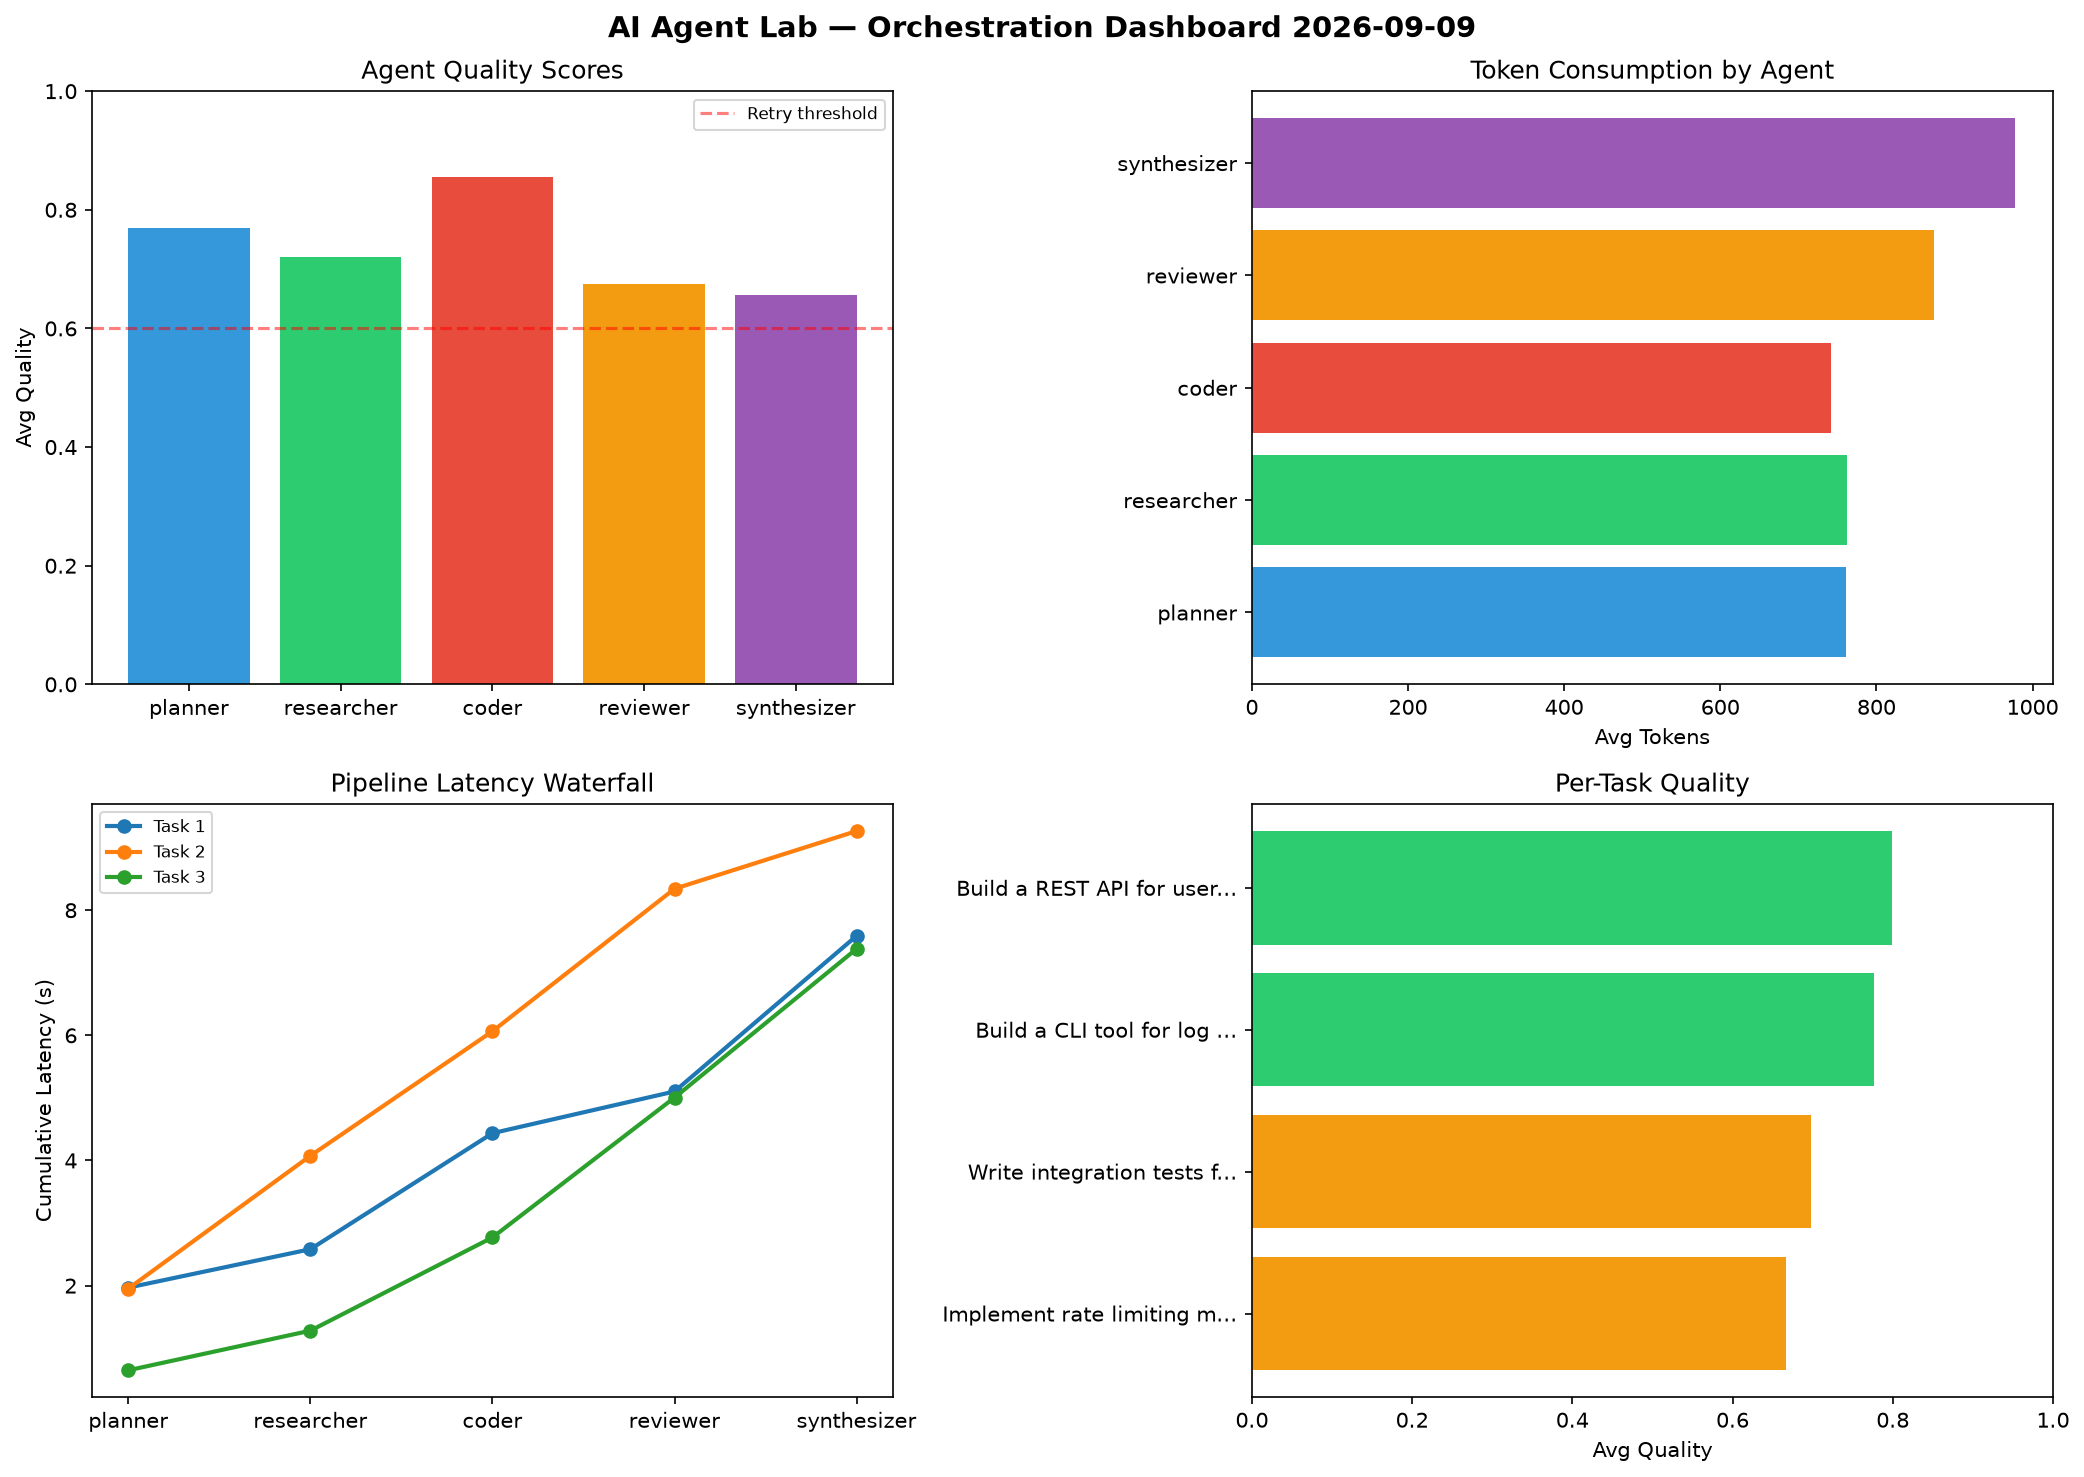
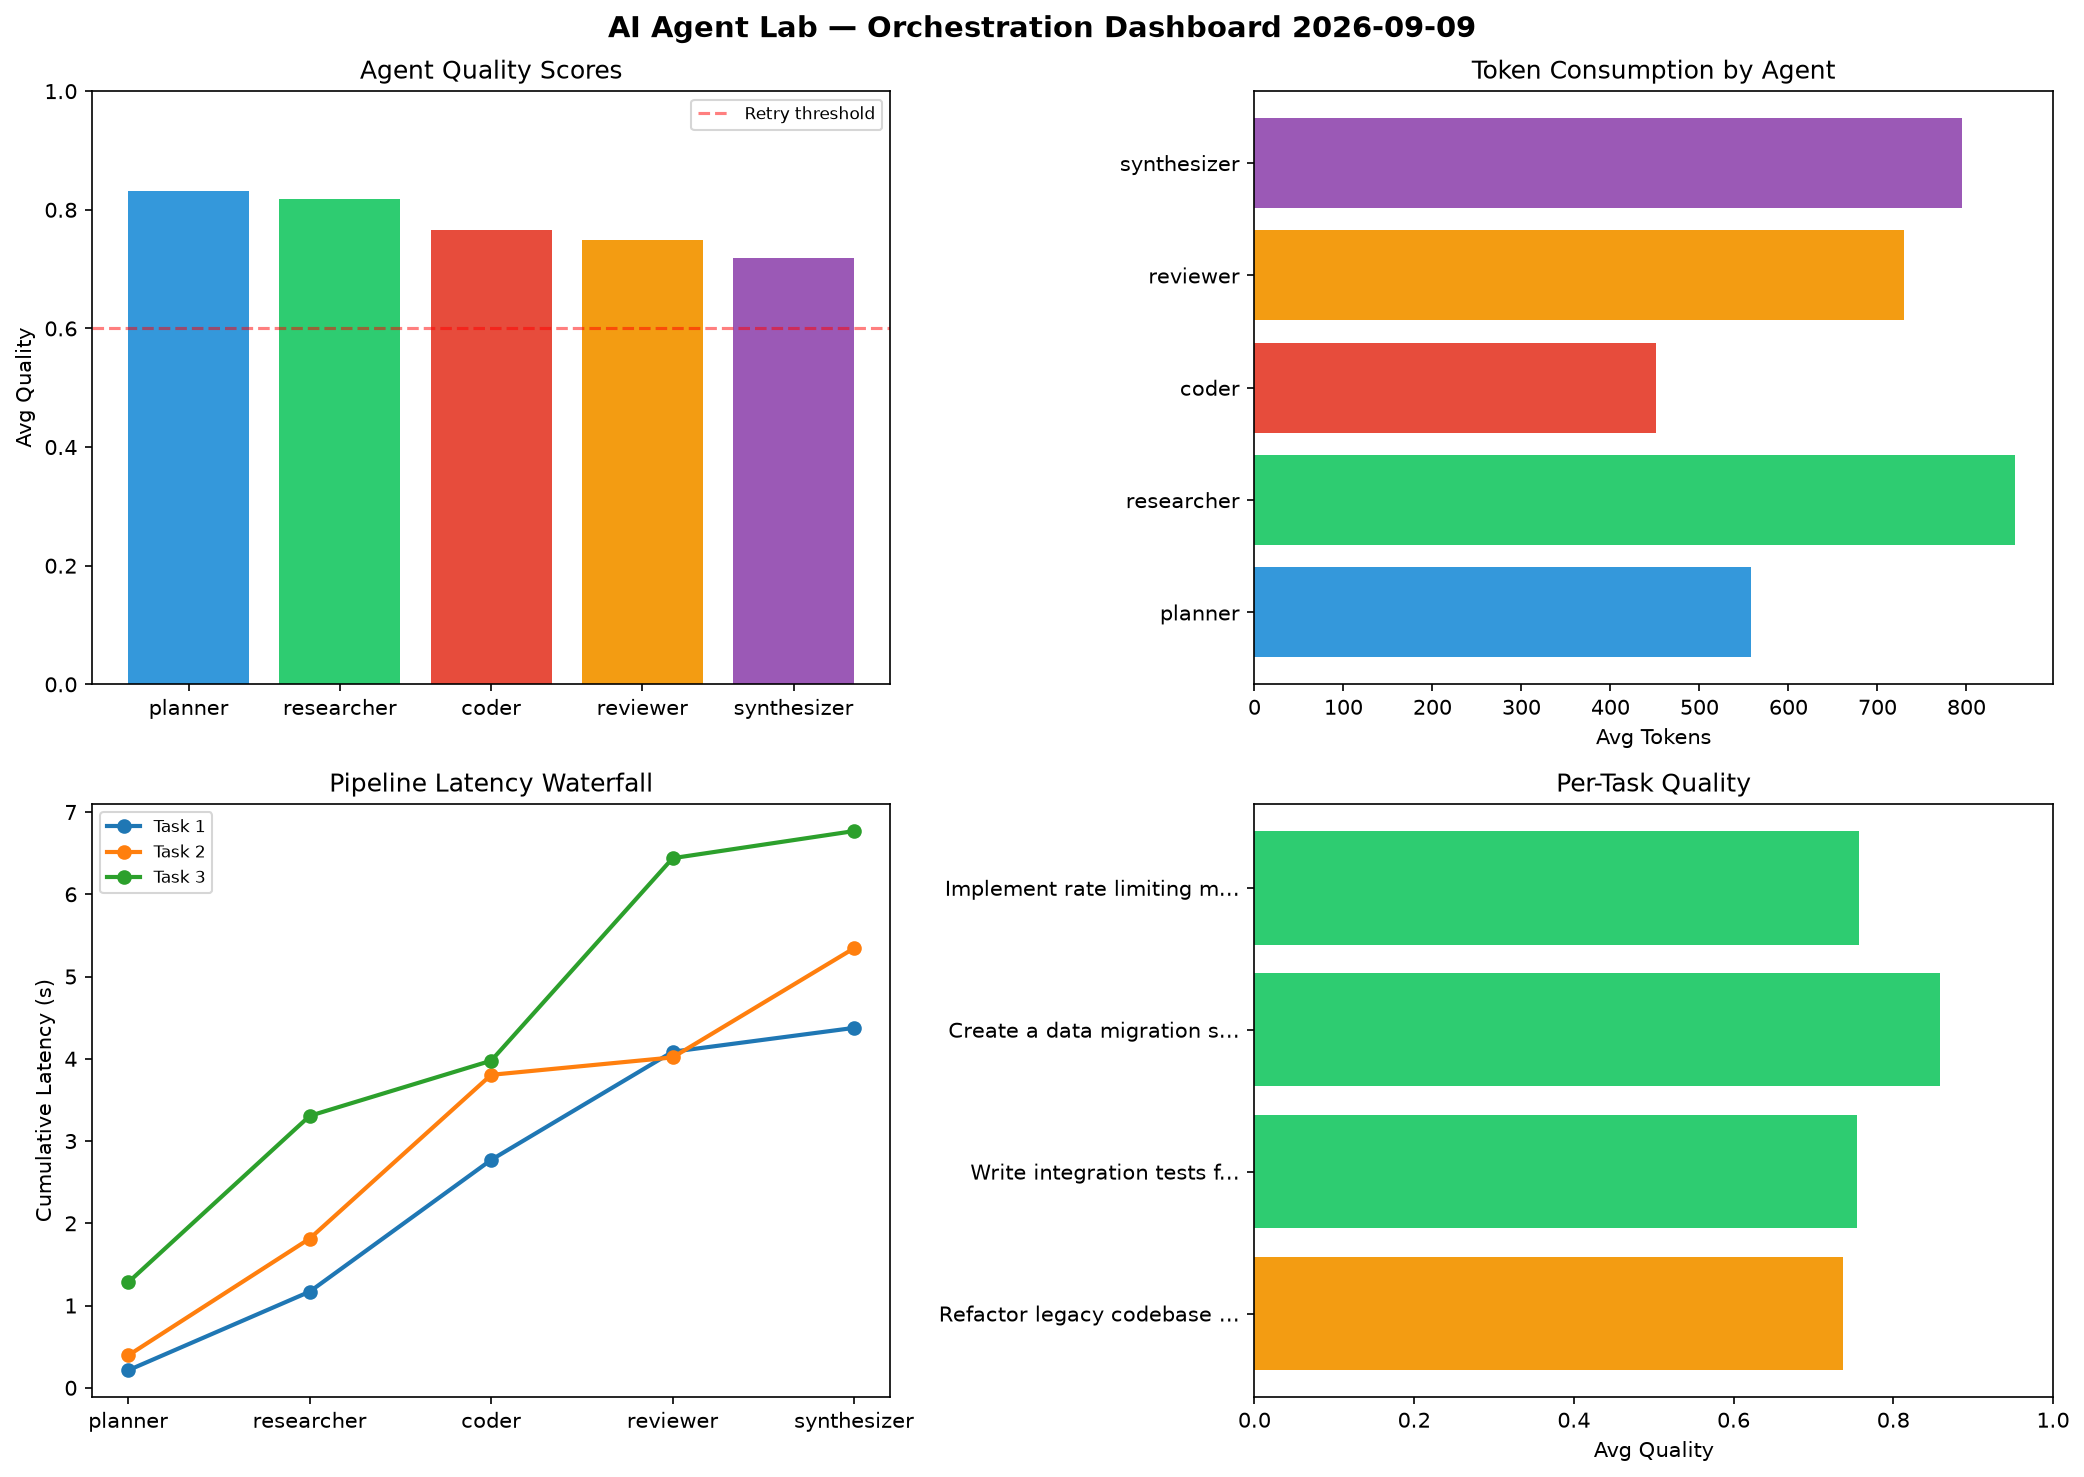
ai-agent-lab: orchestration run 2026-09-09T17:51

diff --git a/logs/2026-09-09.md b/logs/2026-09-09.md
@@ -1,6 +1,6 @@
 # AI Agent Lab — Orchestration Report 2026-09-09
 
-**Run ID:** `82d1d21ab0` | **Tasks:** 4 | **Avg Quality:** 0.735
+**Run ID:** `65b1650463` | **Tasks:** 4 | **Avg Quality:** 0.777
 
 ![Dashboard](2026-09-09_dashboard.png)
 
@@ -8,52 +8,52 @@
 
 | Metric | Value |
 |--------|-------|
-| avg_latency | 7.375 |
-| total_tokens | 16463 |
-| avg_quality | 0.735 |
+| avg_latency | 5.877 |
+| total_tokens | 13554 |
+| avg_quality | 0.777 |
 
 ## Delta vs Yesterday
 
 | Metric | Today | Yesterday | Change |
 |--------|-------|-----------|--------|
-| avg_latency | 7.375 | 7.096 | 📈 3.9% |
-| total_tokens | 16463 | 14854 | 📈 10.8% |
-| avg_quality | 0.735 | 0.817 | 📉 -10.0% |
+| avg_latency | 5.877 | 7.096 | 📉 -17.2% |
+| total_tokens | 13554 | 14854 | 📉 -8.8% |
+| avg_quality | 0.777 | 0.817 | 📉 -4.9% |
 
 ## Pipeline Results
 
-### Implement rate limiting middleware
+### Refactor legacy codebase to use dependency injection
 | Agent | Quality | Latency | Tokens | Status |
 |-------|---------|---------|--------|--------|
-| planner | 0.693 | 1.968s | 799 | success |
-| researcher | 0.631 | 0.614s | 1026 | success |
-| coder | 0.918 | 1.854s | 777 | success |
-| reviewer | 0.527 | 0.667s | 429 | needs_retry |
-| synthesizer | 0.564 | 2.487s | 774 | needs_retry |
+| planner | 0.884 | 0.213s | 843 | success |
+| researcher | 0.765 | 0.956s | 471 | success |
+| coder | 0.701 | 1.602s | 585 | success |
+| reviewer | 0.771 | 1.315s | 670 | success |
+| synthesizer | 0.564 | 0.29s | 788 | needs_retry |
 
 ### Write integration tests for payment processing module
 | Agent | Quality | Latency | Tokens | Status |
 |-------|---------|---------|--------|--------|
-| planner | 0.721 | 1.952s | 1253 | success |
-| researcher | 0.558 | 2.123s | 558 | needs_retry |
-| coder | 0.973 | 1.99s | 584 | success |
-| reviewer | 0.713 | 2.277s | 977 | success |
-| synthesizer | 0.527 | 0.923s | 1250 | needs_retry |
+| planner | 0.541 | 0.394s | 323 | needs_retry |
+| researcher | 0.951 | 1.42s | 1206 | success |
+| coder | 0.915 | 1.991s | 594 | success |
+| reviewer | 0.56 | 0.212s | 592 | needs_retry |
+| synthesizer | 0.806 | 1.328s | 759 | success |
 
-### Build a CLI tool for log analysis
+### Create a data migration script for schema v2
 | Agent | Quality | Latency | Tokens | Status |
 |-------|---------|---------|--------|--------|
-| planner | 0.871 | 0.647s | 302 | success |
-| researcher | 0.959 | 0.633s | 819 | success |
-| coder | 0.685 | 1.49s | 888 | success |
-| reviewer | 0.565 | 2.235s | 1049 | needs_retry |
-| synthesizer | 0.804 | 2.378s | 866 | success |
+| planner | 0.935 | 1.282s | 703 | success |
+| researcher | 0.899 | 2.024s | 1032 | success |
+| coder | 0.783 | 0.671s | 261 | success |
+| reviewer | 0.932 | 2.462s | 1099 | success |
+| synthesizer | 0.745 | 0.33s | 678 | success |
 
-### Build a REST API for user authentication
+### Implement rate limiting middleware
 | Agent | Quality | Latency | Tokens | Status |
 |-------|---------|---------|--------|--------|
-| planner | 0.789 | 1.08s | 688 | success |
-| researcher | 0.735 | 2.12s | 647 | success |
-| coder | 0.844 | 0.564s | 718 | success |
-| reviewer | 0.894 | 0.293s | 1040 | success |
-| synthesizer | 0.732 | 1.207s | 1019 | success |
+| planner | 0.967 | 1.142s | 362 | success |
+| researcher | 0.659 | 1.213s | 709 | success |
+| coder | 0.665 | 0.742s | 365 | success |
+| reviewer | 0.731 | 1.884s | 560 | success |
+| synthesizer | 0.761 | 2.038s | 954 | success |
